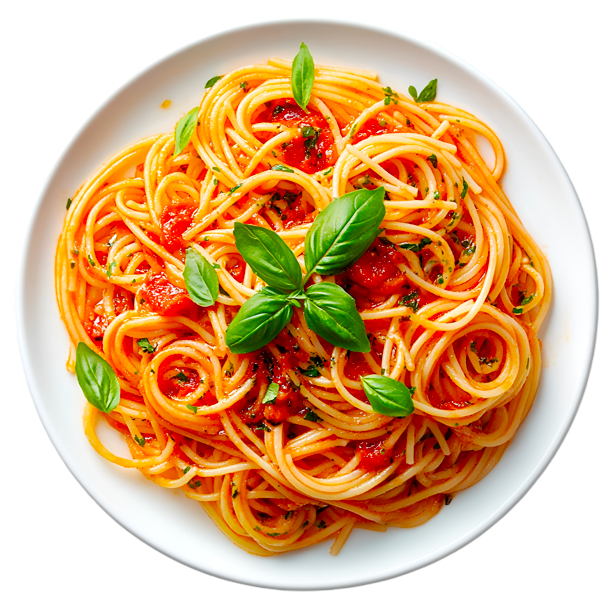
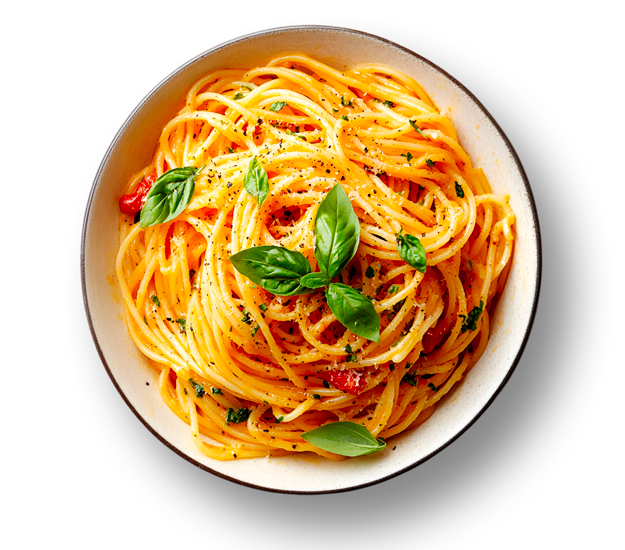
Update pasta image and related code changes

diff --git a/frontend/src/App.tsx b/frontend/src/App.tsx
@@ -145,8 +145,8 @@ function App() {
             width: '100%',
             borderRadius: '20px',
             overflow: 'hidden',
-            backgroundColor: 'white',
-            boxShadow: '0 4px 12px rgba(0,0,0,0.1)'
+            backgroundColor: 'transparent',
+            boxShadow: 'none'
           }}
         >
           <img
